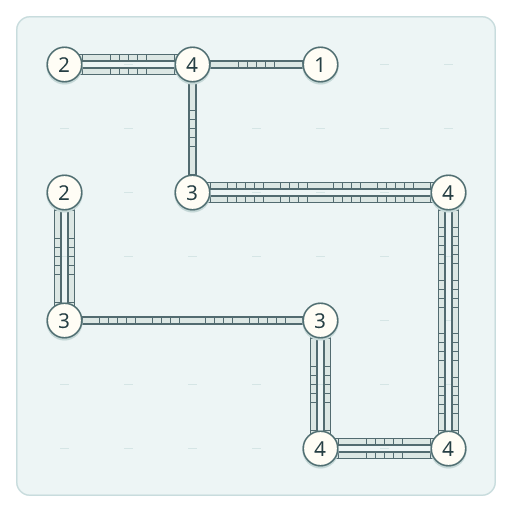
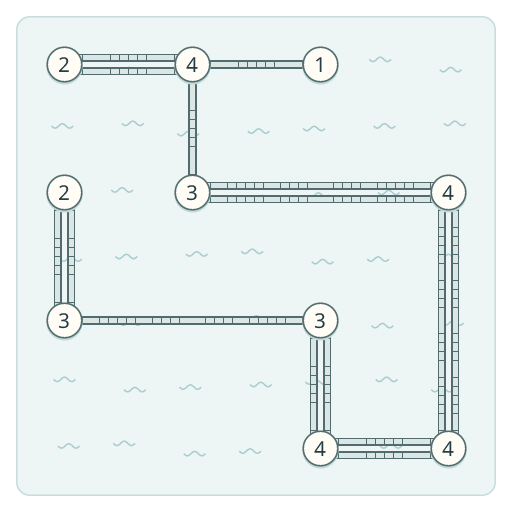
Decorate Bridges water with small ripples

diff --git a/src/csp/picture.py b/src/csp/picture.py
@@ -835,6 +835,16 @@ def starbattle_picture(
     )
 
 
+def _wave(canvas: Canvas, x: float, y: float, cell: float) -> None:
+    """Draw a small decorative ripple centred on (x, y)."""
+    half, height = cell * 0.17, cell * 0.035
+    points = [
+        (x - half + 2 * half * i / 16, y + height * math.sin(3 * math.pi * i / 16))
+        for i in range(17)
+    ]
+    canvas.line(points, "#a9cdd0", max(1.0, cell * 0.024), joint="curve")
+
+
 def bridges_picture(
     puzzle: Bridges,
     solution: Mapping[str, Any] | None = None,
@@ -843,7 +853,7 @@ def bridges_picture(
     interactive: bool = False,
     steps: Iterable[Any] = (),
 ) -> Canvas:
-    """Draw numbered islands on calm water and separate timber bridge decks."""
+    """Draw numbered islands on rippled water and separate timber bridge decks."""
     margin = cell // 2
     width, height = (puzzle.width + 1) * cell, (puzzle.height + 1) * cell
     canvas = Canvas(
@@ -863,7 +873,9 @@ def bridges_picture(
         for col in range(puzzle.width):
             x, y = margin + (col + 0.5) * cell, margin + (row + 0.5) * cell
             if (row, col) not in puzzle.islands:
-                canvas.line(((x - cell * 0.07, y), (x + cell * 0.07, y)), "#d5e5e5", 1)
+                dx = ((row * 37 + col * 17) % 7 - 3) / 3 * cell * 0.1
+                dy = ((row * 11 + col * 29) % 5 - 2) / 2 * cell * 0.08
+                _wave(canvas, x + dx, y + dy, cell)
     changed = {step.var for step in steps}
     if solution is not None and not interactive:
         for pair in puzzle.pairs:
